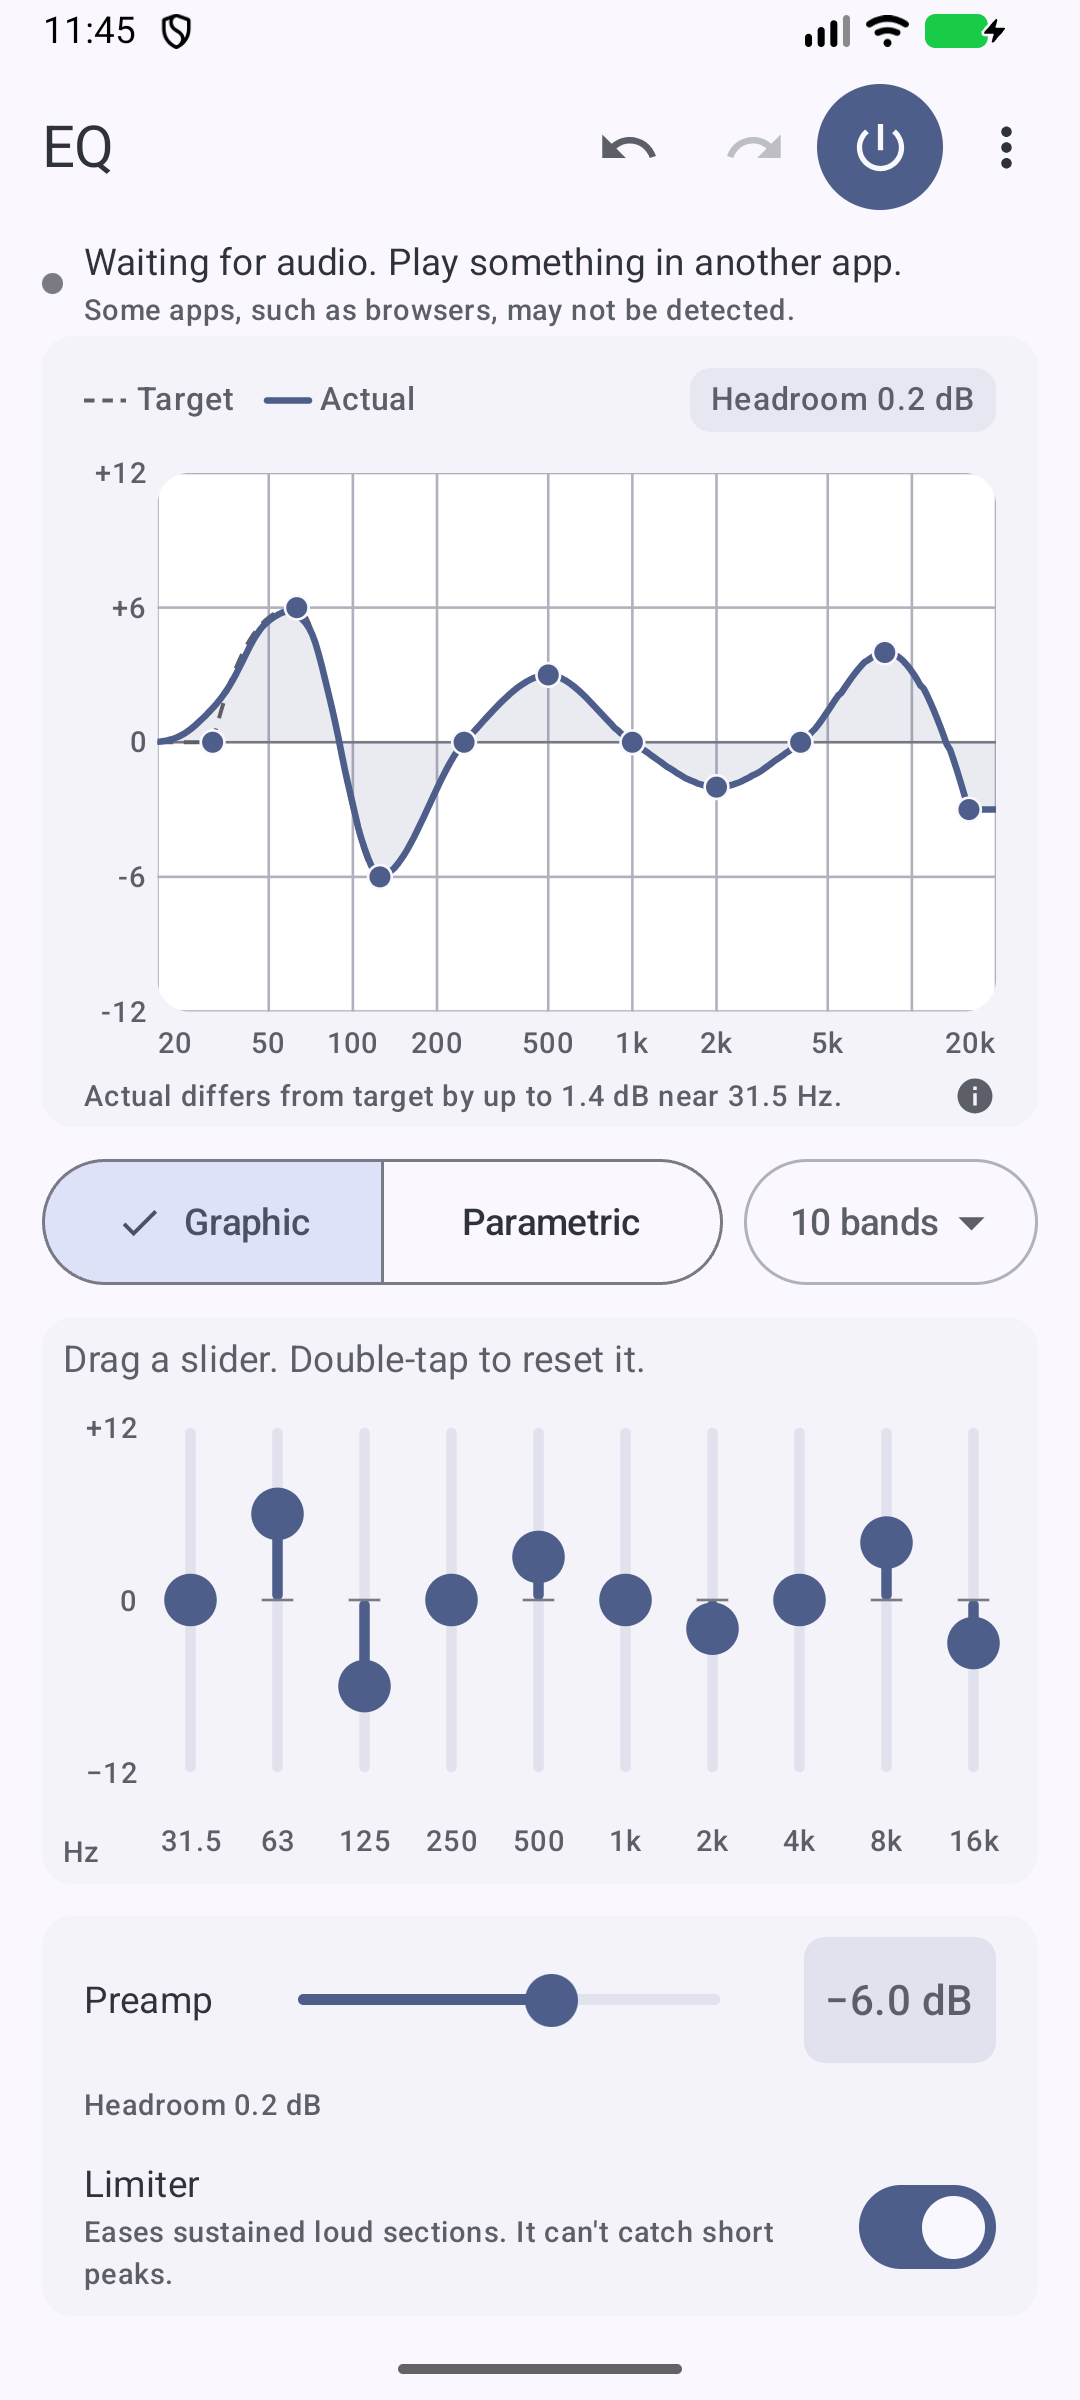
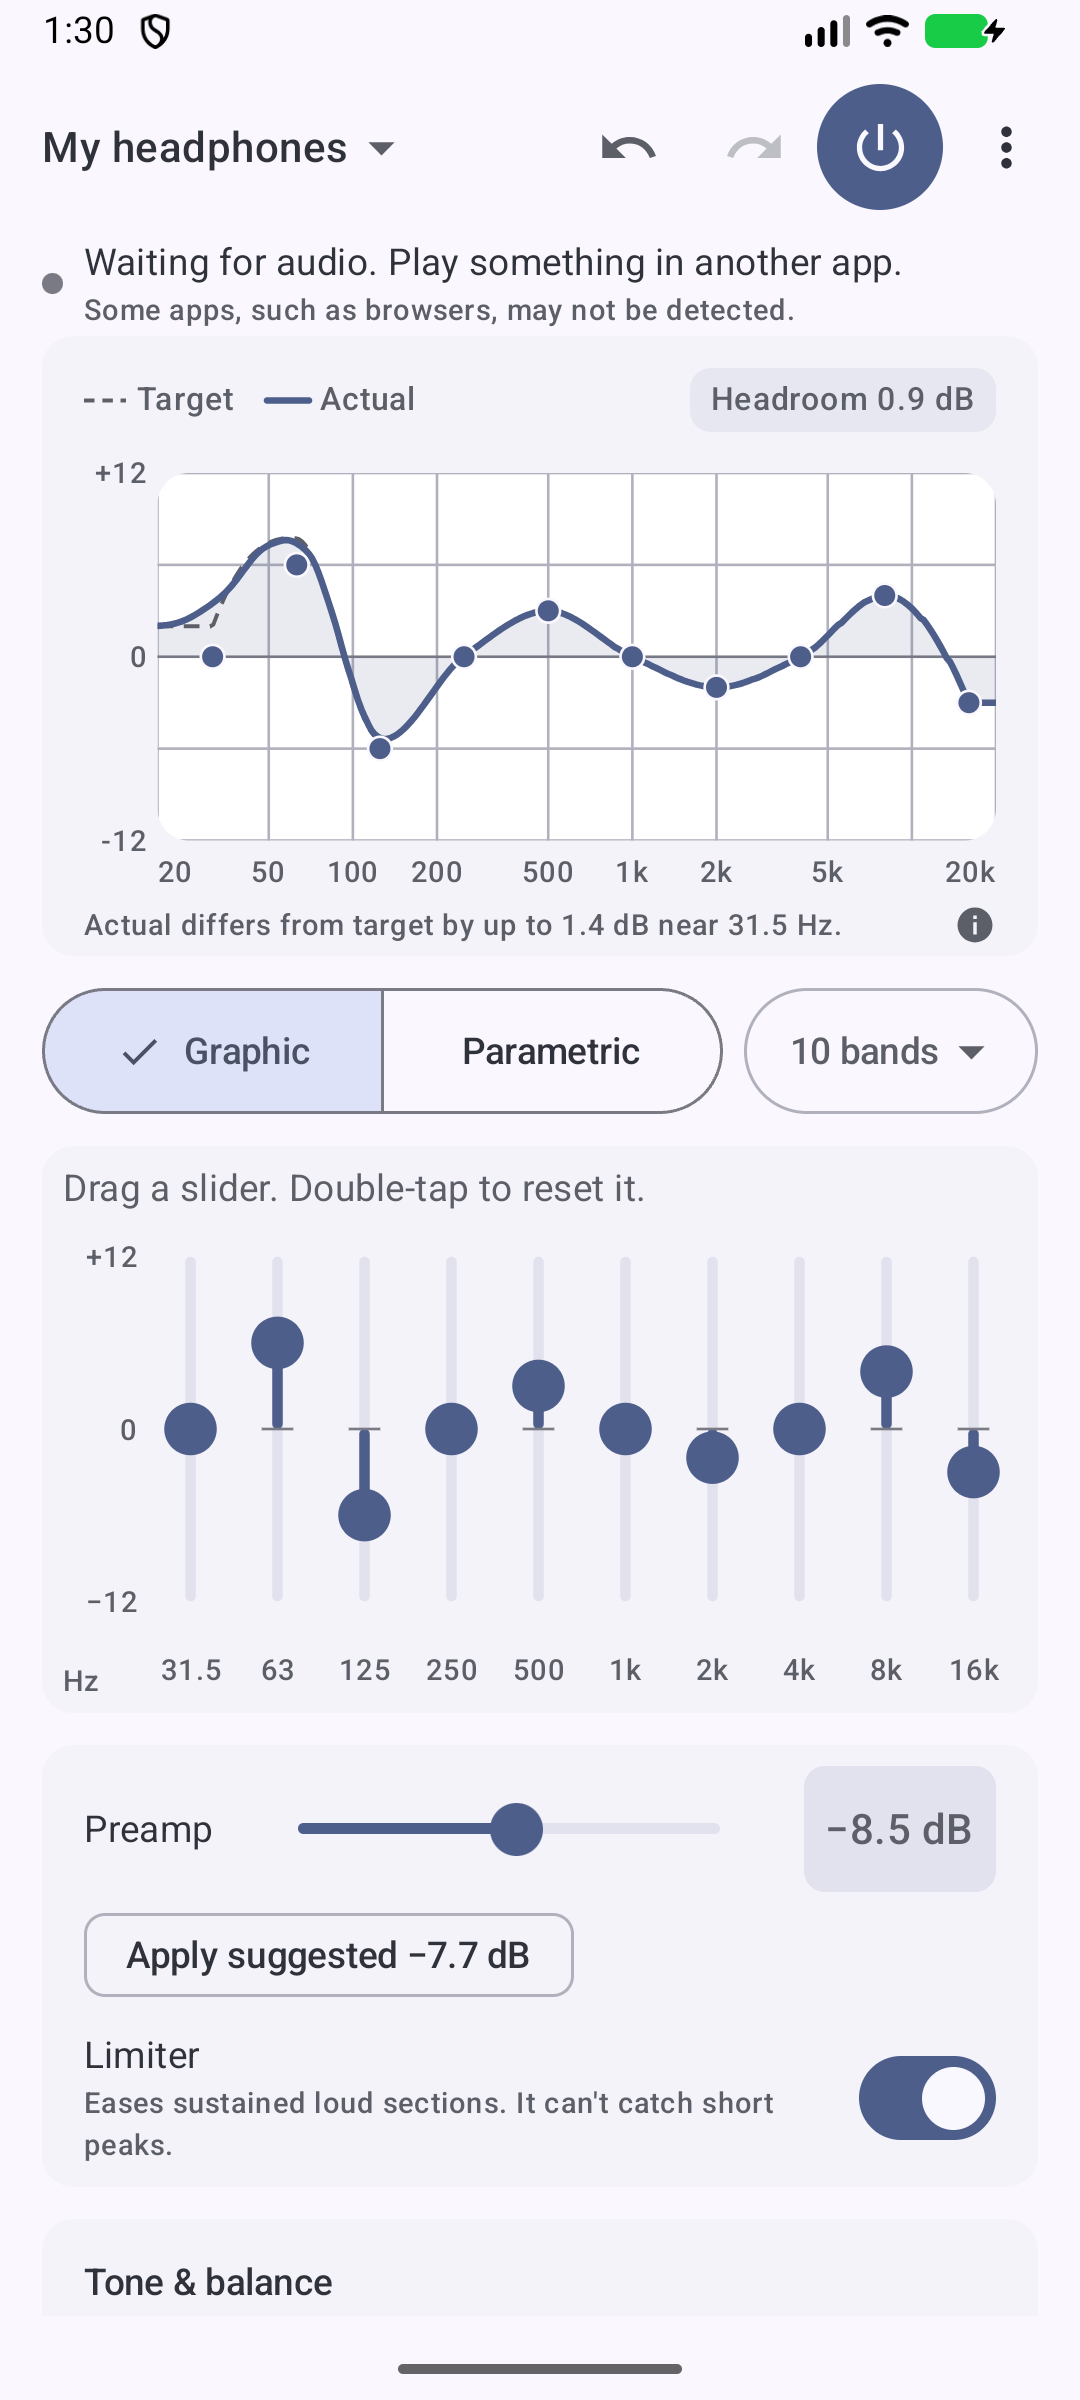
docs: README and screenshots for 0.2.0 (presets, tone and balance, settings)

diff --git a/app/src/debug/java/com/dylenq/eq/debug/DebugCommandReceiver.kt b/app/src/debug/java/com/dylenq/eq/debug/DebugCommandReceiver.kt
@@ -54,6 +54,11 @@ class DebugCommandReceiver : BroadcastReceiver() {
                 "set-global" -> rt.setGlobalMode(on(intent))
                 "set-max-bands" -> rt.overrideEngineBandCap(intent.getIntExtra("value", -1).takeIf { it > 0 })
                 "set-start-on-boot" -> rt.setStartOnBoot(on(intent))
+                // Preset keys are "builtin:<name>" or "user:<name>". These skip the UI's name checks.
+                "save-preset" -> c.edit { it.savePreset(intent.getStringExtra("name") ?: "") }
+                "apply-preset" -> c.edit { it.applyPreset(intent.getStringExtra("key") ?: "") }
+                "delete-preset" -> c.edit { it.deletePreset(intent.getStringExtra("key") ?: "") }
+                "flush" -> rt.flush()  // write pending state now, before a script force-stops the app
                 else -> Log.i(TAG, "unknown debug command: $cmd")
             }
         } catch (t: Throwable) {

diff --git a/README.md b/README.md
@@ -6,30 +6,37 @@
 
 **A system-wide equalizer for other apps' audio on a stock Android phone.**
 
-Download the APK from the project's GitHub Releases page (not published yet, see [docs/RELEASING.md](docs/RELEASING.md)). Android 9 or later (minSdk 28). arm64-v8a, armeabi-v7a and x86_64.
+Download the APK from the [Releases page](https://github.com/dylenq/android-parametric-eq/releases/latest). Android 9 or later (minSdk 28). arm64-v8a, armeabi-v7a and x86_64.
 
 <picture>
   <source media="(prefers-color-scheme: dark)" srcset="docs/screenshot-graphic-dark.png">
-  <img src="docs/screenshot-graphic-light.png" width="320" alt="The Graphic mode: ten vertical gain sliders under a curve, preamp at -6 dB, limiter on">
+  <img src="docs/screenshot-graphic-light.png" width="320" alt="The Graphic mode with the My headphones preset active: ten vertical gain sliders under a curve, preamp at -8.5 dB, limiter on">
 </picture>
 
 </div>
 
 EQ shapes the sound of other apps with Android's `DynamicsProcessing` audio effect. You draw a curve, and the effect is attached to the audio sessions of the apps that announce one. It needs no root, no account and no network access.
 
-It has a graphic mode (5, 10, 15 or 31 bands, plus or minus 12 dB per slider) and a parametric mode (up to 16 bands: peak, low shelf, high shelf, low pass and high pass, with frequency, gain up to plus or minus 24 dB, and Q). Both modes share a preamp (down to -24 dB) and a limiter.
+It has a graphic mode (5, 10, 15 or 31 bands, plus or minus 12 dB per slider) and a parametric mode (up to 16 bands: peak, low shelf, high shelf, low pass and high pass, with frequency, gain up to plus or minus 24 dB, and Q). Both modes share a preamp (down to -24 dB), a limiter, bass and treble controls, a left/right balance, and named presets.
 
 <div align="center">
 
 <picture>
   <source media="(prefers-color-scheme: dark)" srcset="docs/screenshot-parametric-dark.png">
-  <img src="docs/screenshot-parametric-light.png" width="320" alt="The Parametric mode: a curve with draggable band nodes and a list of bands below">
+  <img src="docs/screenshot-parametric-light.png" width="320" alt="The Parametric mode with the Desk speakers preset active: a curve with draggable band nodes and a list of bands below">
 </picture>
-<img src="docs/screenshot-settings.png" width="320" alt="Settings: global mode, start when the phone turns on, detected audio sessions, version 0.1.0">
+<img src="docs/screenshot-settings.png" width="320" alt="Settings: global mode, start when the phone turns on, detected audio sessions, engine bands 512 (measured), version 0.2.0">
 
 </div>
 
-The screenshots come from an Android 17 arm64 emulator, not from a phone.
+<div align="center">
+
+<img src="docs/screenshot-presets.png" width="320" alt="The preset list: Save and Save as new buttons, the built-in Flat, Bass, Treble and Vocal presets, and three of your own presets with My headphones checked">
+<img src="docs/screenshot-tone.png" width="320" alt="The Tone and balance card: bass +4.5 dB, treble -3.0 dB, balance R 30, under the preamp and limiter">
+
+</div>
+
+The screenshots come from an Android 17 arm64 emulator. `spike-tools/readme-screens.sh` retakes them.
 
 ## Features
 
@@ -69,7 +76,7 @@ The effect works on blocks of audio. EQ uses an 85.3 ms block so that narrow fil
 
 ## Limits and what is not verified
 
-Everything here was checked on one Android 17 arm64 emulator only. Nothing has been tested on a physical phone, and no real player (Spotify, YouTube and so on) has been tested. The list below says what is known to be off and what has never been tried.
+The checks below ran on one Android 17 arm64 emulator. The author has also installed 0.2.0 on one phone and used it without problems, but no structured tests were run on a physical phone, and no real player (Spotify, YouTube and so on) has been tested systematically. The list below says what is known to be off and what has not been checked.
 
 Known limits:
 
@@ -87,16 +94,16 @@ Known limits:
 - The APK is not minified and is about 25 MB. See [docs/MINIFICATION.md](docs/MINIFICATION.md).
 - One service crash was seen once, about a second after Android restarted the service following a `kill -9`, and it could not be reproduced or explained in about 170 test restarts. It is not claimed fixed.
 
-Never tried (not verified, none marked as passed):
+Not checked (none marked as passed):
 
-- Any physical phone: sound, battery use, background limits set by phone makers, restart behaviour, and whether the notification appears when you deny the notification permission.
+- Physical phones beyond the author's own everyday use: measured sound, battery use, background limits set by phone makers, restart behaviour, and whether the notification appears when you deny the notification permission.
 - Real players: whether they announce an audio session, and when.
 - Global mode: whether it is audible, and whether real phones accept it.
 - Start on boot after a real restart, including a phone with a lock screen set.
 - Changing the output (Bluetooth, headphones) or the sample rate while playing.
 - The themed (monochrome) app icon, TalkBack, the reduced-motion setting, dynamic colour with real wallpapers, touch and haptic feel, and different keyboards.
 - Devices on Android 9 to 11 (the fallback colours were checked in code only).
-- The release workflow in `.github/workflows/release.yml` has never run (see Releasing below), and a build signed with a real release key has not been made.
+- The release workflow in `.github/workflows/release.yml` has never completed a run (see Releasing below), and a build signed with a real release key has not been made.
 
 ## Privacy
 
@@ -133,7 +140,7 @@ A real release needs your own keystore. Create one with `scripts/create-keystore
 
 ### Releasing
 
-The steps to publish are in [docs/RELEASING.md](docs/RELEASING.md). The GitHub workflow in `.github/workflows/release.yml` has never run. It was checked statically only, and it creates a draft release.
+The steps to publish are in [docs/RELEASING.md](docs/RELEASING.md). The GitHub workflow in `.github/workflows/release.yml` has never completed a run: it needs the release-key secrets, which are not set up yet. Release 0.2.0 was published by hand with the test-signed APK. When it does run, the workflow creates a draft release.
 
 ## License
 

diff --git a/docs/RELEASING.md b/docs/RELEASING.md
@@ -2,7 +2,7 @@
 
 Nothing has been published. No keystore exists, no GitHub repository exists, no remote is configured and no tag has been created. These are the steps for you to publish.
 
-The GitHub workflow in `.github/workflows/release.yml` has never run. It was checked statically only (the YAML parses, and `scripts/check-workflow.sh` confirms pinning, permissions and that no secret appears inside a `run:` block). Its first real run may fail for reasons nobody could see in advance, such as the Android command line tools path on the runner image, or how long `cargo install cargo-ndk` takes. It creates a draft release, so nothing becomes public until you press publish.
+The GitHub workflow in `.github/workflows/release.yml` has never completed a run. It was checked statically only (the YAML parses, and `scripts/check-workflow.sh` confirms pinning, permissions and that no secret appears inside a `run:` block). Its first real run may fail for reasons nobody could see in advance, such as the Android command line tools path on the runner image, or how long `cargo install cargo-ndk` takes. It creates a draft release, so nothing becomes public until you press publish.
 
 Pinning: `actions/checkout`, `actions/setup-java`, `gradle/actions/setup-gradle` and `softprops/action-gh-release` are pinned to full commit SHAs, each with a comment naming the release tag. The two annotated tags (gradle/actions v6.4.0 and softprops/action-gh-release v3.0.3) are pinned to the commit the tag points at. `Swatinem/rust-cache` is not used.
 
@@ -116,7 +116,7 @@ git tag v0.1.0
 git push origin v0.1.0
 ```
 
-13. Watch the workflow run in the Actions tab. If it fails, fix the cause and delete and re-push the tag; remember it has never run. When it succeeds it leaves a draft release with `EQ-0.1.0.apk`. Download that APK, run `apksigner verify --print-certs` on it (`apksigner` is in the Android SDK under `build-tools/36.0.0/`) and compare the fingerprint with step 5, then publish the draft.
+13. Watch the workflow run in the Actions tab. If it fails, fix the cause and delete and re-push the tag; remember it has never completed a run. When it succeeds it leaves a draft release with `EQ-0.1.0.apk`. Download that APK, run `apksigner verify --print-certs` on it (`apksigner` is in the Android SDK under `build-tools/36.0.0/`) and compare the fingerprint with step 5, then publish the draft.
 
 ## Decision for you at publish time
 
